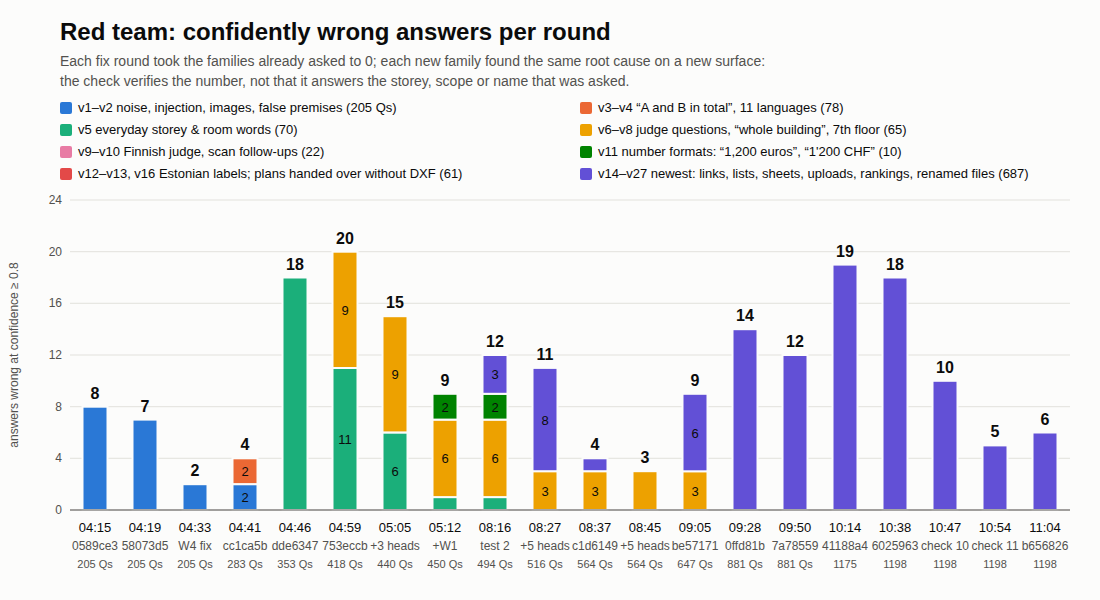
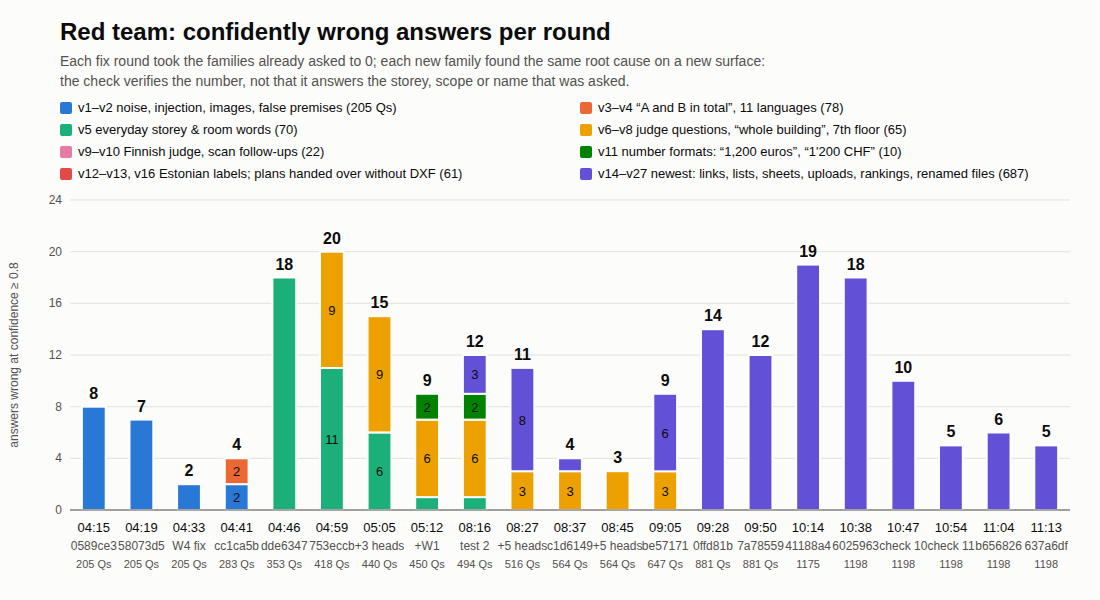
Q: red team on the final night 637a6df (397/397 at >=0.8, 0 premises, renamed-file IFC 213/213, 1 W 0 L vs b656826; only bug 26 left); chart bar 5; DEMO + LIVE-CHECK

Changed region(s): [[0.0618, 0.39, 0.9891, 0.96], [0.1236, 0.66, 0.1545, 0.69], [0.0618, 0.63, 0.0927, 0.66]]

diff --git a/experiments/q/plot_rounds.py b/experiments/q/plot_rounds.py
@@ -12,7 +12,7 @@ SIZES = [205, 78, 70, 65, 22, 10, 61, 687]  # v22: 140 upload rows (its 76 datas
 ROUNDS = [("04:15", "0589ce3"), ("04:19", "58073d5"), ("04:33", "W4 fix"), ("04:41", "cc1ca5b"), ("04:46", "dde6347"),
           ("04:59", "753eccb"), ("05:05", "+3 heads"), ("05:12", "+W1"),
           ("08:16", "test 2"), ("08:27", "+5 heads"), ("08:37", "c1d6149"), ("08:45", "+5 heads"), ("09:05", "be57171"),
-          ("09:28", "0ffd81b"), ("09:50", "7a78559"), ("10:14", "41188a4"), ("10:38", "6025963"), ("10:47", "check 10"), ("10:54", "check 11"), ("11:04", "b656826")]
+          ("09:28", "0ffd81b"), ("09:50", "7a78559"), ("10:14", "41188a4"), ("10:38", "6025963"), ("10:47", "check 10"), ("10:54", "check 11"), ("11:04", "b656826"), ("11:13", "637a6df")]
 ASKED = {7: 450, 8: 494, 9: 516, 10: 564, 11: 564, 12: 647, 13: 881, 14: 881, 15: 1175}  # rounds that asked only part of a family (08:16: v14 without v15)
 DATA = [[8, None, None, None, None, None, None, None], [7, None, None, None, None, None, None, None],
         [2, None, None, None, None, None, None, None], [2, 2, None, None, None, None, None, None],
@@ -25,7 +25,8 @@ DATA = [[8, None, None, None, None, None, None, None], [7, None, None, None, Non
         [0, 0, 0, 0, 0, 0, 0, 18],  # 6025963: v22 6, v25 4, v27 5 (4 relative storeys, 1 two-part), v26 3
         [0, 0, 0, 0, 0, 0, 0, 10],  # pre-merge #10 (+W1 bbd2544, W4 c2b0fad, R1 c8d67d0, …): v22 4, v27 4 relative storeys, v25 2
         [0, 0, 0, 0, 0, 0, 0, 5],  # pre-merge #11 (every head of 10:54): v22 3, v27 'directly above' 1, v25 agent 297 1
-        [0, 0, 0, 0, 0, 0, 0, 6]]  # b656826 (final candidate): v22 5 CubiCasa uploads, v25 agent 297 @0.95 (flaky: 0.145 in another run)
+        [0, 0, 0, 0, 0, 0, 0, 6],  # b656826: v22 5 CubiCasa uploads, v25 agent 297 @0.95 (flaky: 0.145 in another run)
+        [0, 0, 0, 0, 0, 0, 0, 5]]  # 637a6df (final night): v22 5 CubiCasa uploads (bug 26)
 W, H = 1100, 600
 L, R, T, B = 70, 30, 200, 90          # plot margins
 YMAX = 24

diff --git a/demo/DEMO.md b/demo/DEMO.md
@@ -93,14 +93,14 @@ headless chromium, numbers from `redteam/REPORT.md`). **Say only this (≈ 22 s,
 > "We tried to break it ourselves: over a thousand adversarial questions — rewordings, nine languages, rotated scans,
 > rooms that don't exist, renamed files, a judge's own upload. Every confident mistake had one cause: we checked the
 > number, not that it answered what was asked. Each bar is a round of fixes; the tall ones on the right are this
-> morning's new attacks. On the first 600, all 398 confident answers are right — and it never just refuses."
+> morning's new attacks. On the first 600, all 397 confident answers are right — and it never just refuses."
 (The bars from 09:28 on count only the newest families — uploads, links, lists, rankings, renamed files, relative
 storeys — on builds where every older family is at 0: 14 / 12 / 19 / 18, then 10 and 5 with the 10:47 / 10:54 owner
-heads, 6 on the final candidate b656826: CubiCasa uploads (5) and one agent confidence flake (297 at 0.95 or 0.145). Redraw after the final
+heads, 6 on b656826, **5 on the final night 637a6df: all five are CubiCasa uploads without the style (bug 26)**. Redraw after the final
 build: `python3 experiments/q/bar_count.py MAIN_RUN [V27_RUN] --v26 V26_RUN` gives the bar.)
-(Numbers by stage build — say the line for the build on stage: **night b656826 (11:04, final candidate):
-"… all 398 confident answers are right, and no confident answer to a trick question"** (run
-`…-110445-…-all-b656826-0aa9`; 433 of 433 on v1–v20); pre-merge #11: "… all 396"; pre-merge #10: "… all 398"; night 6025963: "… all 402" (`…-103834-…-all-6025963-f05a`);
+(Numbers by stage build — say the line for the build on stage: **the final night 637a6df (11:13):
+"… all 397 confident answers are right, and no confident answer to a trick question"** (run
+`…-111324-…-all-637a6df-538a`; 432 of 432 on v1–v20); b656826: "… all 398"; pre-merge #11: "… all 396"; pre-merge #10: "… all 398"; night 6025963: "… all 402" (`…-103834-…-all-6025963-f05a`);
 41188a4: "… all 379"; **7a78559 (09:50): "… all 378"** (run `…-094023-…-all-7a78559-2466`; 413 of 413 on
 v1–v20); 0ffd81b: "… all 364" (run `…-092751-…-all-0ffd81b-ba15`); be57171 / 31397eb: "609 … all 360"; bb94fe4 (test 2):
 "494 … 283 of 290"; c1d6149: "564 … 338 of 339"; 62754aa: "609 … 337 of 339". "Never just refuses": 0 of 647
@@ -174,8 +174,8 @@ On older builds more of these break: see the git history of this file (08:20 and
   **On the 11:15 build (pre-merge #11) also right:** "How many doors are on the floor above this one?" (42), "… the
   floor below this one?" (0 — the foundation), "Which floor has no MAGAMISTUBA?" (1.korrus), "Which floor has the
   biggest room?" (1.korrus), "Quale piano ha il maggior numero di porte?" (frigento: Piano 1). **Steer away from:**
-  "How many windows does the floor with the most doors have?" (agent: 297 at 0.95 or 0.145 — flaky).
-  ("The storey directly above this one" → 60 is right on b656826.) Also "How big is the laundry room?" (870 at 0.30) and "the same area as room X" (returns X's area). If one
+  nothing new from tonight's families on 637a6df ("the storey directly above this one" → 60; "How many windows does
+  the floor with the most doors have?" is capped, no longer 297 at 0.95). Also "How big is the laundry room?" (870 at 0.30) and "the same area as room X" (returns X's area). If one
   of these comes up, open the evidence and say it: "the trace shows what it computed — this is a known failure, it's
   on the failure slide."
 - Esplanades rooms are labelled in Estonian; English room words work and the card says which labels it used:

diff --git a/redteam/REPORT.md b/redteam/REPORT.md
@@ -6,7 +6,10 @@ Builds on F's `hard` (translations/paraphrases/compositions/ft²) and `hard2` (n
 don't. The first 205 rows start from dev questions the pipeline had **right at conf ≥ 0.8**, so a failure there is
 caused by the perturbation, not by the drawing.
 
-## Now (11:13) — the short version
+## Now (11:21) — the short version
+- **Final night 637a6df: v1–v18 397/397 at conf ≥ 0.8 right, 0 false premises at ≥ 0.8; all 1015 rows 607/616; the
+  259 IFC questions on renamed files 213/213 at ≥ 0.8; 1 won / 0 lost vs b656826; demo pre-flight 23/23 unchanged.
+  The only confident misses left on tonight's 27 families: 5 CubiCasa uploads (bug 26).**
 - **Final candidate night b656826: v1–v18 398/398 at conf ≥ 0.8 right, 0 false premises at ≥ 0.8; all 1015 rows
   608/618; the 259 IFC questions on renamed files 213/213 at ≥ 0.8; 11 won / 2 lost vs 6025963 (both < 0.8); demo
   pre-flight 23/23 unchanged.** Every family written tonight is at 0 confident misses except CubiCasa uploads (5, bug
@@ -980,7 +983,15 @@ v21 "3rd floor level" (21.92 at 0.85 → 22'-5" at 0.65), the plan-without-IFC "
 → 50 at 0.97; Italian "Quante finestre … non sono disegnate …?" → 55 at 0.88), both caught by W4's 87eaf64 shape guard
 or not (pre-merge check #10 below).
 
-## Night b656826 (11:04, S0 cycle 43 round 2) — the final candidate
+## Night 637a6df (11:13, S0 cycle 43 round 3) — the final night
+Runs `20261114-111324-pipeline-all-637a6df-538a` (1015 rows), `-111324-…-v26_hash-637a6df-41e6`, demo pre-flight
+`-111324-…-live_questions-0abb` (23/23 unchanged). **v1–v18 397/397 at ≥ 0.8 right, 0 false premises at ≥ 0.8;
+v1–v20 432/432; 1015 rows 607/616; renamed-file IFC rows 242/251, 213/213 at ≥ 0.8. vs b656826 1 won / 0 lost; vs
+6025963 11 won / 1 lost (< 0.8).** The agent's 297 at 0.95 is gone (W4 3e08025 caps it). **Left at ≥ 0.8 on all 27
+families: 5 CubiCasa upload rows (bug 26)** (+ the same plan's 4 dataset-path / styled controls: the LoRA reads 2
+bedrooms, gold 3). Chart bar 5. Cost vs b656826 flat (LLM calls/Q 1.129 → 1.147, tokens in/Q 2,360 → 2,399).
+
+## Night b656826 (11:04, S0 cycle 43 round 2) — the candidate before round 3
 Runs `20261114-110445-pipeline-all-b656826-0aa9` (1015 rows), `-110445-…-v26_hash-b656826-3fa1` (renamed files),
 `-110445-…-v2527-b656826-ae94` (v25 + v27 alone), demo pre-flight `-110655-…-live_questions-1903` (23/23 unchanged).
 **v1–v18 398/398 at ≥ 0.8 right, 0 false premises at ≥ 0.8; v1–v20 433/433; 1015 rows 608/618; renamed-file IFC rows

diff --git a/demo/LIVE-CHECK.md b/demo/LIVE-CHECK.md
@@ -1,6 +1,9 @@
 # Demo pre-flight check
 
-**Newest: run `20261114-110655-pipeline-live_questions-1903` on night b656826** (S0 cycle 43 round 2), 11:07 14 Nov:
+**Final night: run `20261114-111324-pipeline-live_questions-0abb` on night 637a6df** (S0 cycle 43 round 3), 11:13 14 Nov:
+**all 23 answers identical to b656826 / 41188a4 / 0ffd81b** (16 of 17 scored right).
+
+**Before: run `20261114-110655-pipeline-live_questions-1903` on night b656826** (S0 cycle 43 round 2), 11:07 14 Nov:
 **all 23 answers identical to 41188a4 and 0ffd81b** (16 of 17 scored right).
 
 **Before: run `20261114-103801-pipeline-live_questions-5788` on night 41188a4** (S0 cycle 40), 10:38 14 Nov, 23 rows:
